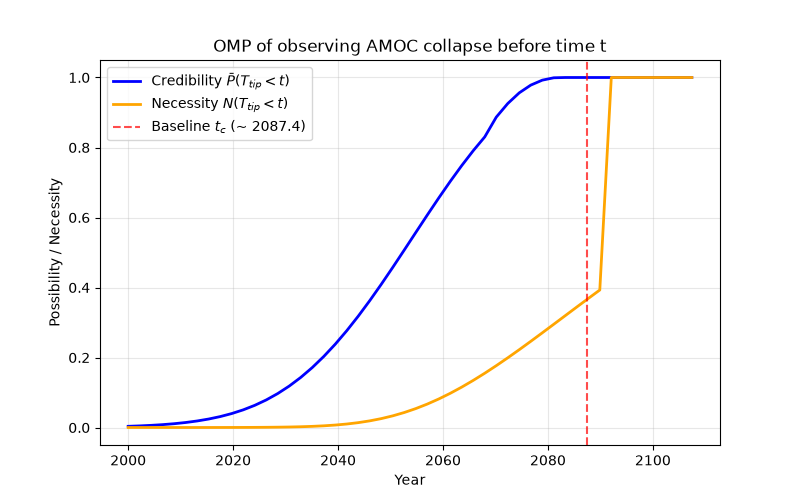
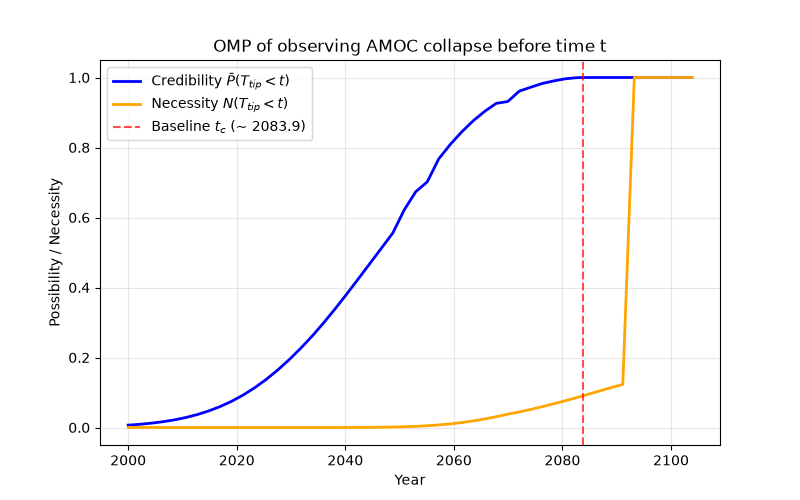
experiments with joint_true done

diff --git a/main_ter.py b/main_ter.py
@@ -2,6 +2,8 @@ import os
 from functools import lru_cache
 from concurrent.futures import ProcessPoolExecutor, as_completed
 
+import time
+
 import numpy as np
 import pandas as pd
 import matplotlib.pyplot as plt
@@ -41,6 +43,9 @@ os.environ["NUMEXPR_NUM_THREADS"] = "1"
 params = ["alpha", "mu", "sigma2", "tau", "a"]
 
 
+# CHOOSE YOUR POSTERIOR
+POSTERIOR_FUNCTION = joint_true
+
 # ============================================================================
 # Everything below that is a plain FUNCTION DEFINITION stays at module level
 # (outside `if __name__ == "__main__":`), because the parallel workers below
@@ -72,7 +77,7 @@ params = ["alpha", "mu", "sigma2", "tau", "a"]
 
 @lru_cache(maxsize=20000)
 def _cached_posterior(theta_key, max_loglik_global):
-    return float(np.exp(-joint_flattened(theta_key) - max_loglik_global))
+    return float(np.exp(-POSTERIOR_FUNCTION(theta_key) - max_loglik_global))
 
 
 def _posterior(theta, max_loglik_global, round_dp=6):
@@ -89,7 +94,7 @@ def possibility_theta_5d(theta, T, max_loglik_global):
     Evaluates possibility dynamically calculating t_c(theta) = tau.
     theta = [alpha, mu, sigma, tau, a]
     """
-    alpha, mu, sigma, tau, a = theta
+    #alpha, mu, sigma, tau, a = theta
 
     posterior = _posterior(theta, max_loglik_global)
 
@@ -123,7 +128,7 @@ def possibility_tipping_before(T, values, max_loglik_global):
 
 def possibility_contrary_theta_5d(theta, T, max_loglik_global):
 
-    alpha, mu, sigma, tau, a = theta
+    #alpha, mu, sigma, tau, a = theta
 
     # 1. Epistemic uncertainty
     posterior = _posterior(theta, max_loglik_global)
@@ -199,8 +204,12 @@ if __name__ == "__main__":
     # guard it would re-run this whole driver (and spawn its own pool) on
     # import instead of just picking up the function definitions above.
 
-    function = joint_true
+    function = POSTERIOR_FUNCTION
+    print(time.strftime("%H:%M:%S", time.localtime()))
     max_loglik_global, best_params, other_params = MLE(function, params)
+    print(time.strftime("%H:%M:%S", time.localtime()))
+    print(best_params)
+    print(other_params)
 
     #profiles = marg(function, params, max_loglik_global, best_params)
 
@@ -225,7 +234,7 @@ if __name__ == "__main__":
     lambda0 = best_params["lambda0"] #need to concatenate dictionaries of estimated parameters!
     m = best_params["m"]
     t_c = best_params["t_c"]
-    #print("t_c value = ", t_c)
+    print("t_c value = ", t_c)
 
 
     #short_time = from_t0[(2000 <= from_t0) & (from_t0 <= t_c + 5)]

diff --git a/utils.py b/utils.py
@@ -99,7 +99,7 @@ def lambda_t_formula(t, lambda0, tau):
 
 def MLE(function, params):    
     
-    res = minimize(function, init_params, method='Nelder-Mead', bounds=b(params))
+    res = minimize(function, init_params, method='Nelder-Mead', bounds=b(params)) 
 
     max_loglik = -res.fun
     best_params = dict(zip(params, res.x))
@@ -122,19 +122,19 @@ def MLE(function, params):
 
 def marg(function, params, max_loglik, best_params):
     """Returns a possibility function for each parameter"""
-    
-    
-    profiles = {}
 
+    profiles = {}
 
     for target_idx, target_param in enumerate(params):
 
-        profiles[target_param] = np.zeros(grid_points)
+        base_grid = intervals[target_param]
+        best_val = best_params[target_param]
+        
+        grid = np.unique(np.append(base_grid, best_val))
+        profiles[target_param] = np.zeros(len(grid))
         other_params = [p for p in params if p != target_param]
         other_bounds = [bounds[p] for p in other_params]
         other_inits = [best_params[p] for p in other_params]
-
-        grid = intervals[target_param]
 
         for i, val in enumerate(tqdm(grid, desc=f"{target_param.capitalize()} profile")):
             

diff --git a/constants.py b/constants.py
@@ -83,7 +83,7 @@ T_SWITCH = 1924.0   # density switches from linearized (q) to Strang (s) here
 
 N_STAT, N_NONSTAT = 20, 50
 
-FP_N, FP_STEPS = 100, 50 #TODO: i have divided by 2 the resolution for faster speed but should improve for better accuracy
+FP_N, FP_STEPS = 200, 100 #TODO: i have divided by 2 the resolution for faster speed but should improve for better accuracy
 # FP-solver resolution for the true-model transitions entering D_B
 
 def _pick(idx, k):

diff --git a/example.py b/example.py
@@ -397,6 +397,9 @@ if __name__ == "__main__":
             }, f, indent=2)
         print(f"Saved MLE result to {MLE_FILE}")
 
+    print(best_params)
+    print(other_params)
+
     profiles = marg_parallel(function, params, max_loglik_global, best_params)
 
     plot_profiles(profiles, best_params, f"{name}_marg.png")
